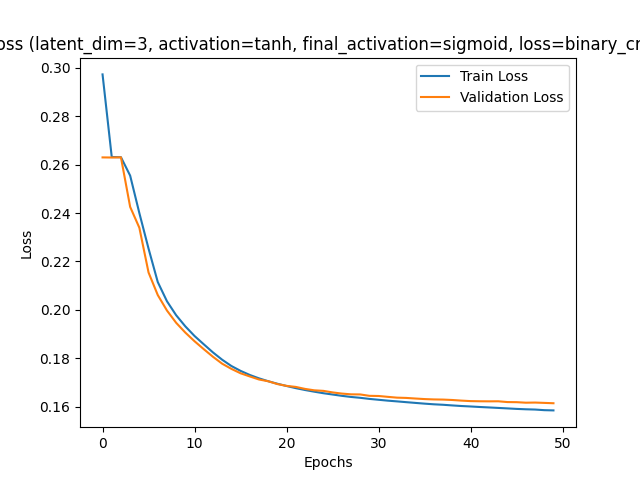
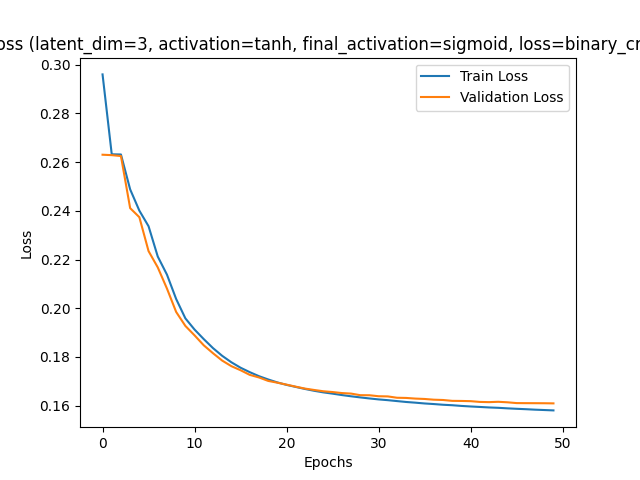
autoencoder final push

diff --git a/autoencoder/main.py b/autoencoder/main.py
@@ -9,13 +9,13 @@ if not os.path.exists('plots'):
     os.makedirs('plots')
 
 
-def run_single_experiment(latent_dim, activation='tanh', final_activation='sigmoid', loss='binary_crossentropy'):
+def run_single_experiment(latent_dim, activation='relu', final_activation='sigmoid', loss='binary_crossentropy'):
     # Charger et préparer les données
     x_train, x_test, y_train, y_test = load_mnist_data(normalize=True)
 
     # Créer et entraîner l'AutoEncoder
     autoencoder = AutoEncoder(input_dim=784, latent_dim=latent_dim, activation=activation,
-                              final_activation=final_activation)
+                                final_activation=final_activation)
     history = autoencoder.train(x_train, x_test, epochs=50, batch_size=256, loss=loss)
 
     # Visualiser la perte d'entraînement
@@ -29,7 +29,7 @@ def run_single_experiment(latent_dim, activation='tanh', final_activation='sigmo
     # Visualiser les images originales et reconstruites
     comparison_title = f'Original and Reconstructed Images (latent_dim={latent_dim}, activation={activation}, final_activation={final_activation}, loss={loss})'
     utils.plot_comparison(x_test, decoded_imgs, latent_dim, title=comparison_title,
-                          filename=f'plots/encode_decode_dim={latent_dim}_act={activation}.png')
+                            filename=f'plots/encode_decode_dim={latent_dim}_act={activation}.png')
 
     # Si latent_dim == 2 ou 3, visualiser l'espace latent
     if latent_dim in [2, 3]:
@@ -41,7 +41,7 @@ def run_single_experiment(latent_dim, activation='tanh', final_activation='sigmo
     synthetic_data, latent_points = autoencoder.generate_synthetic_data()
     synthetic_title = f'Synthetic Data (latent_dim={latent_dim}, activation={activation}, final_activation={final_activation}, loss={loss})'
     utils.plot_synthetic_data(synthetic_data, latent_points, title=synthetic_title,
-                              filename=f'plots/gendata_dim={latent_dim}_act={activation}.png')
+                                filename=f'plots/gendata_dim={latent_dim}_act={activation}.png')
 
 
 def run_exploration(activations, losses, latent_dims):
@@ -60,13 +60,12 @@ def run_exploration(activations, losses, latent_dims):
                     f"Running exploration {current_exploration}/{total_explorations} - Activation: {activation}, Loss: {loss}, Latent Dim: {latent_dim}")
 
                 autoencoder = AutoEncoder(input_dim=784, latent_dim=latent_dim, activation=activation,
-                                          final_activation='sigmoid')
+                                            final_activation='sigmoid')
                 history = autoencoder.train(x_train, x_test, epochs=50, batch_size=256, loss=loss)
                 histories[(activation, loss, latent_dim)] = history
 
     # Visualiser les pertes d'entraînement pour chaque combinaison d'activation et de perte
-    utils.plot_multiple_histories(histories, activations, losses, latent_dims,
-                                  filename=f'plots/exploration.png')
+    utils.plot_multiple_histories(histories, activations, losses, latent_dims, filename='plots/exploration')
 
 
 if __name__ == "__main__":
@@ -76,5 +75,5 @@ if __name__ == "__main__":
     # Exploration automatique de plusieurs configurations
     activations = ['relu', 'tanh']
     losses = ['binary_crossentropy', 'mse']
-    latent_dims = [2, 3, 5]
-    # run_exploration(activations, losses, latent_dims)
+    latent_dims = [3, 30]
+    run_exploration(activations, losses, latent_dims)

diff --git a/autoencoder/model.py b/autoencoder/model.py
@@ -46,7 +46,6 @@ class AutoEncoder:
         # La couche de sortie reconstruit les données d'entrée avec une activation spécifiée
         decoded = Dense(self.input_dim, activation=self.final_activation)(decoded)
 
-        # Création du modèle AutoEncoder
         autoencoder = Model(input_img, decoded)
 
         return autoencoder
@@ -54,22 +53,14 @@ class AutoEncoder:
     def build_encoder(self):
         """
         Construit l'architecture de l'encodeur seule.
-
         L'encodeur prend l'entrée de l'AutoEncoder et sort la couche encodée (latente)
-
-        Returns:
-        encoder (Model): Le modèle de l'encodeur qui réduit les données d'entrée à l'espace latent.
         """
         return Model(self.autoencoder.input, self.autoencoder.layers[3].output)
 
     def build_decoder(self):
         """
         Construit l'architecture du décodeur seule.
-
         Le décodeur prend la représentation latente et reconstruit les données d'origine.
-
-        Returns:
-        decoder (Model): Le modèle du décodeur qui reconstruit les données à partir de l'espace latent.
         """
         encoded_input = Input(shape=(self.latent_dim,))
         decoder_layer = self.autoencoder.layers[-3](encoded_input)
@@ -79,15 +70,6 @@ class AutoEncoder:
 
     def train(self, x_train, x_test, epochs=50, batch_size=256, loss='binary_crossentropy'):
         """
-        Entraîne l'AutoEncoder avec les données de formation.
-
-        Parameters:
-        x_train (ndarray): Les données d'entraînement.
-        x_test (ndarray): Les données de test pour la validation.
-        epochs (int): Le nombre d'époques pour l'entraînement.
-        batch_size (int): La taille des lots pour l'entraînement.
-        loss (str): La fonction de perte à utiliser pour l'entraînement.
-
         Returns:
         history (History): L'historique de l'entraînement contenant les pertes pour chaque époque.
         """
@@ -100,8 +82,6 @@ class AutoEncoder:
 
     def encode(self, x):
         """
-        Encode les données d'entrée en utilisant l'encodeur.
-
         Parameters:
         x (ndarray): Les données d'entrée à encoder.
 
@@ -112,8 +92,6 @@ class AutoEncoder:
 
     def decode(self, encoded_imgs):
         """
-        Décode les données encodées en utilisant le décodeur.
-
         Parameters:
         encoded_imgs (ndarray): Les données encodées à décoder.
 
@@ -124,7 +102,7 @@ class AutoEncoder:
 
     def generate_synthetic_data(self, step=0.25):
         """
-        Génère des données synthétiques en échantillonnant l'espace latent avec des pas de 0.25.
+        Génère des données en échantillonnant l'espace latent avec des pas de 0.25.
 
         Parameters:
         step (float): Le pas de l'échantillonnage dans l'espace latent.

diff --git a/autoencoder/utils.py b/autoencoder/utils.py
@@ -70,17 +70,17 @@ def plot_latent_space(encoded_imgs, latent_dim, y_test, title, filename=None):
 
 def plot_synthetic_data(synthetic_data, latent_points, title, filename=None, step=0.25):
     num_images = len(synthetic_data)
-    n_cols = int(np.ceil(np.sqrt(num_images)))
-    n_rows = int(np.ceil(num_images / n_cols))
+    n_cols = 5  # 5 valeurs différentes pour chaque dimension
+    n_rows = num_images // n_cols
 
-    fig, axes = plt.subplots(n_rows, n_cols, figsize=(20, n_rows * 2))
+    fig, axes = plt.subplots(n_rows, n_cols, figsize=(20, n_rows * 3))
     axes = axes.flatten()
 
     for i in range(num_images):
         ax = axes[i]
         ax.imshow(synthetic_data[i].reshape(28, 28), cmap='gray')
         x, y, z = latent_points[i]
-        ax.set_title(f'({x:.2f}, {y:.2f}, {z:.2f})', fontsize=10)
+        ax.set_title(f'({x:.2f}, {y:.2f}, {z:.2f})', fontsize=8)
         ax.axis('off')
 
     for ax in axes[num_images:]:
@@ -92,3 +92,33 @@ def plot_synthetic_data(synthetic_data, latent_points, title, filename=None, ste
     plt.show()
 
 
+def plot_multiple_histories(histories, activations, losses, latent_dims, filename=None):
+    styles = ['-', '--', '-.', ':']
+    markers = ['o', 's', '^', 'D']
+
+    for loss in losses:
+        fig, axs = plt.subplots(len(activations), len(latent_dims), figsize=(15, 10))
+        fig.suptitle(f'Training and Validation Loss for Loss Function: {loss}')
+
+        for i, activation in enumerate(activations):
+            for j, latent_dim in enumerate(latent_dims):
+                style = styles[j % len(styles)]
+                marker = markers[i % len(markers)]
+                history = histories[(activation, loss, latent_dim)]
+                axs[i, j].plot(history.history['loss'], label='Train Loss', linestyle=style, marker=marker)
+                axs[i, j].plot(history.history['val_loss'], label='Val Loss', linestyle=style, marker=marker)
+                axs[i, j].set_title(f'Act: {activation}, Latent Dim: {latent_dim}')
+                axs[i, j].legend()
+
+        for ax in axs.flat:
+            ax.set(xlabel='Epochs', ylabel='Loss')
+
+        for ax in axs.flat:
+            ax.label_outer()
+
+        plt.tight_layout(rect=[0, 0.03, 1, 0.95])
+
+        if filename:
+            plt.savefig(f'{filename}_{loss}.png', bbox_inches='tight')
+
+        plt.show()

diff --git a/autoencoder/data_loader.py b/autoencoder/data_loader.py
@@ -1,6 +1,7 @@
 import numpy as np
 import tensorflow as tf
 
+
 def load_mnist_data(normalize=True, shuffle=True):
     (x_train, y_train), (x_test, y_test) = tf.keras.datasets.mnist.load_data()
     x_train = x_train.astype('float32')
